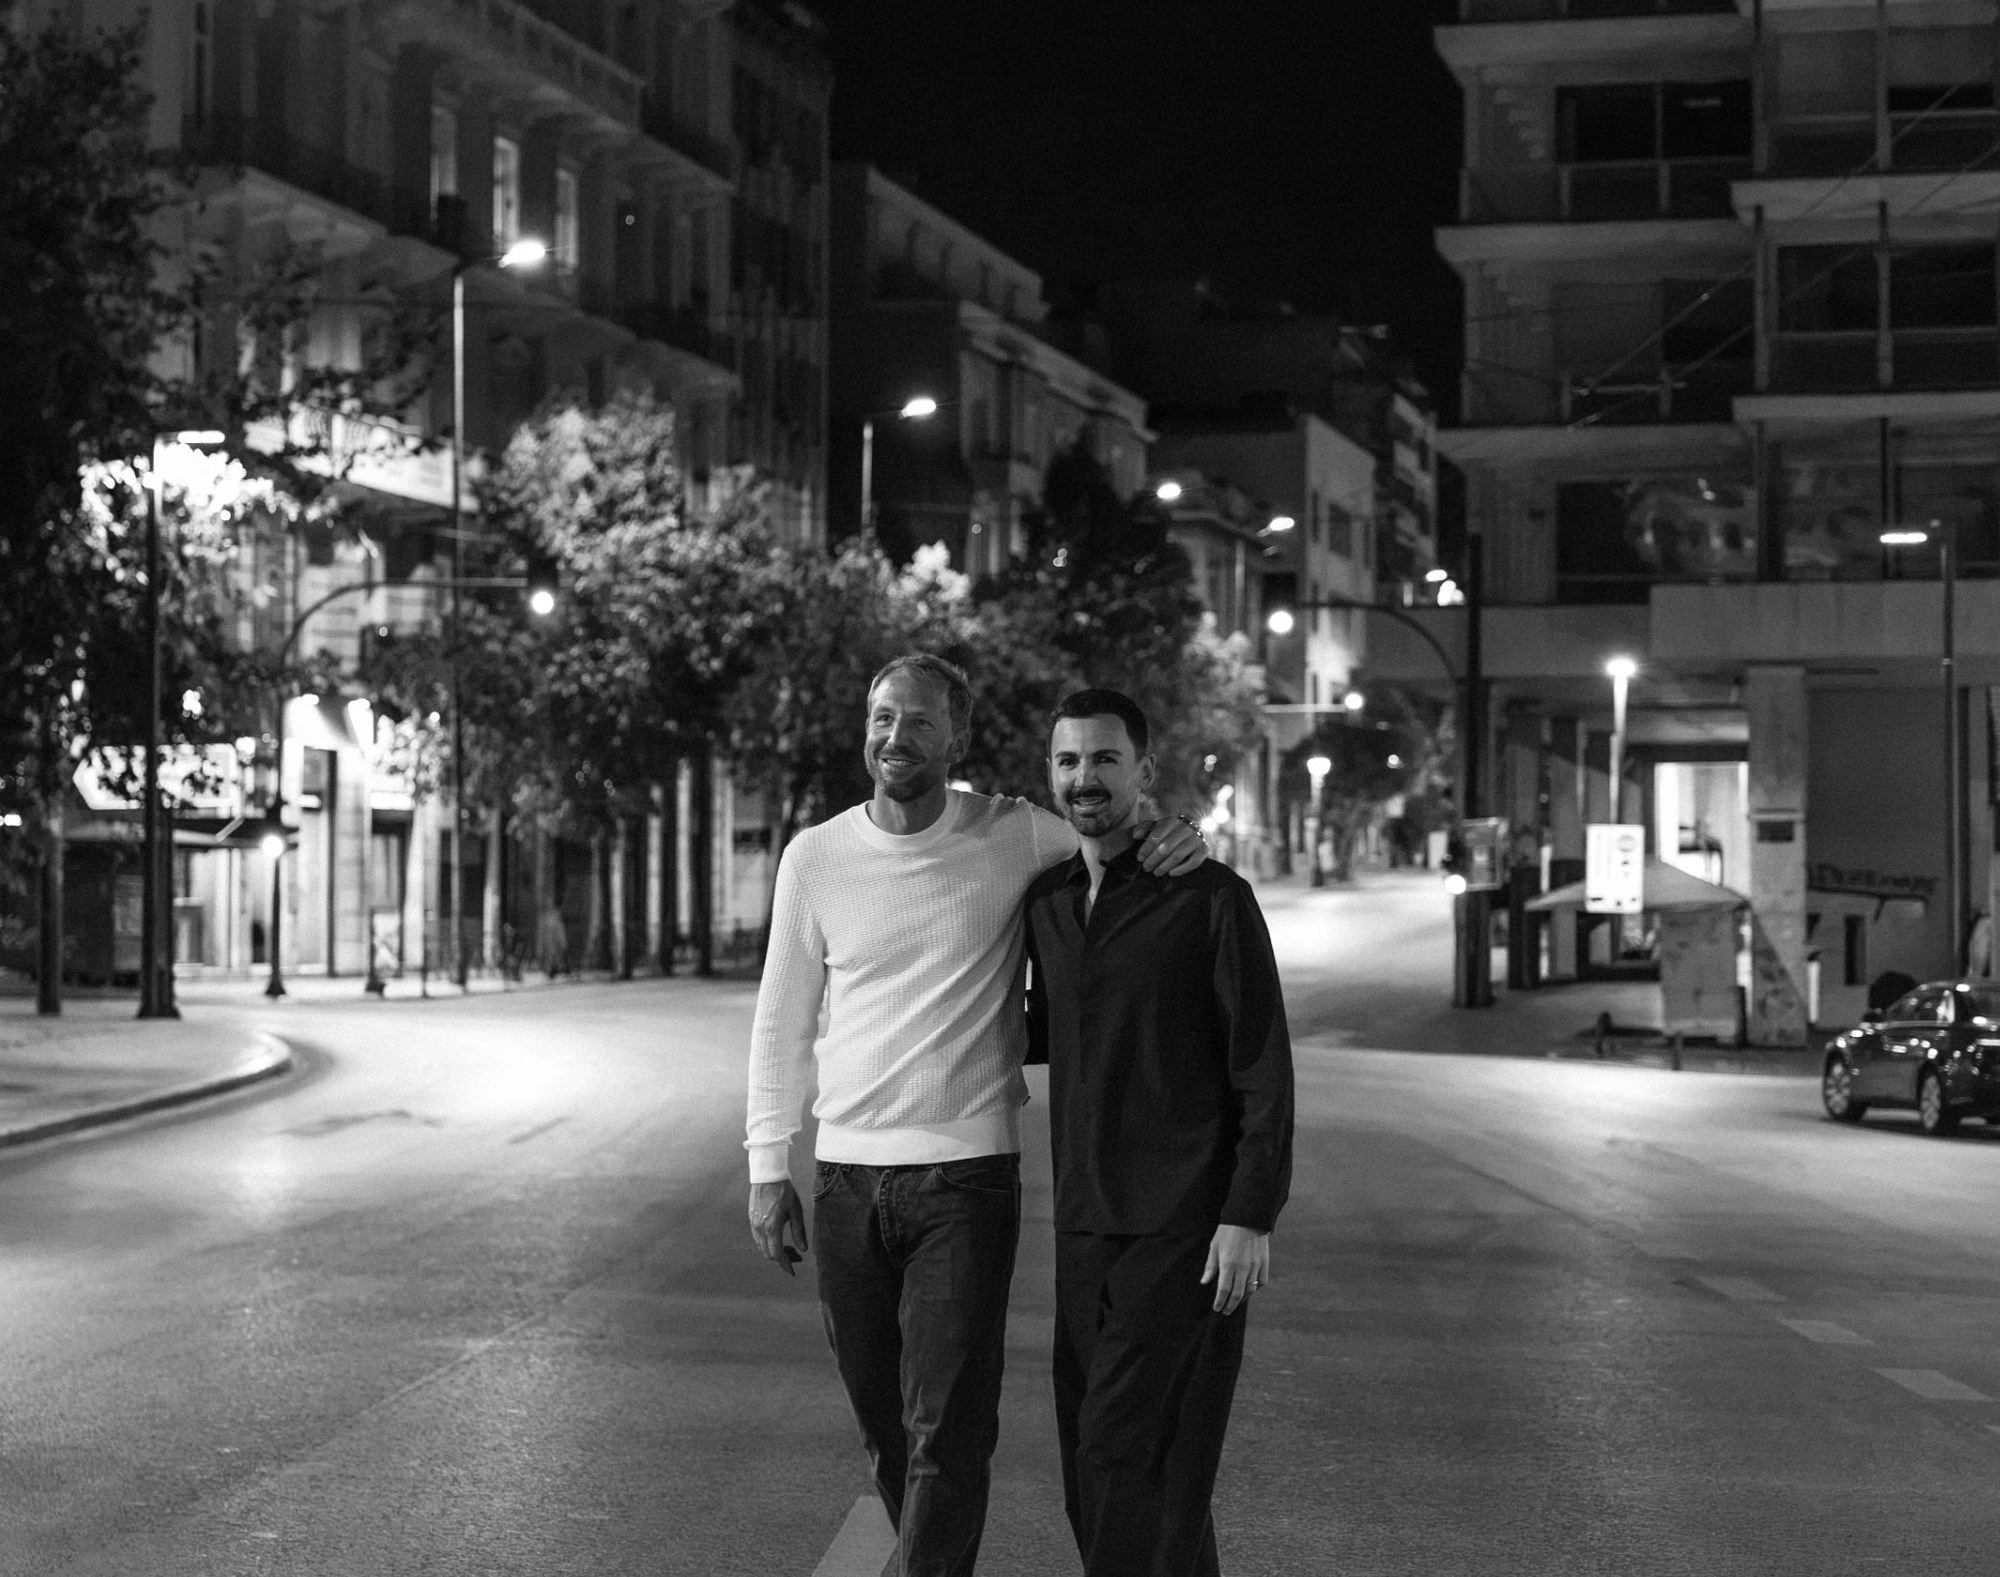
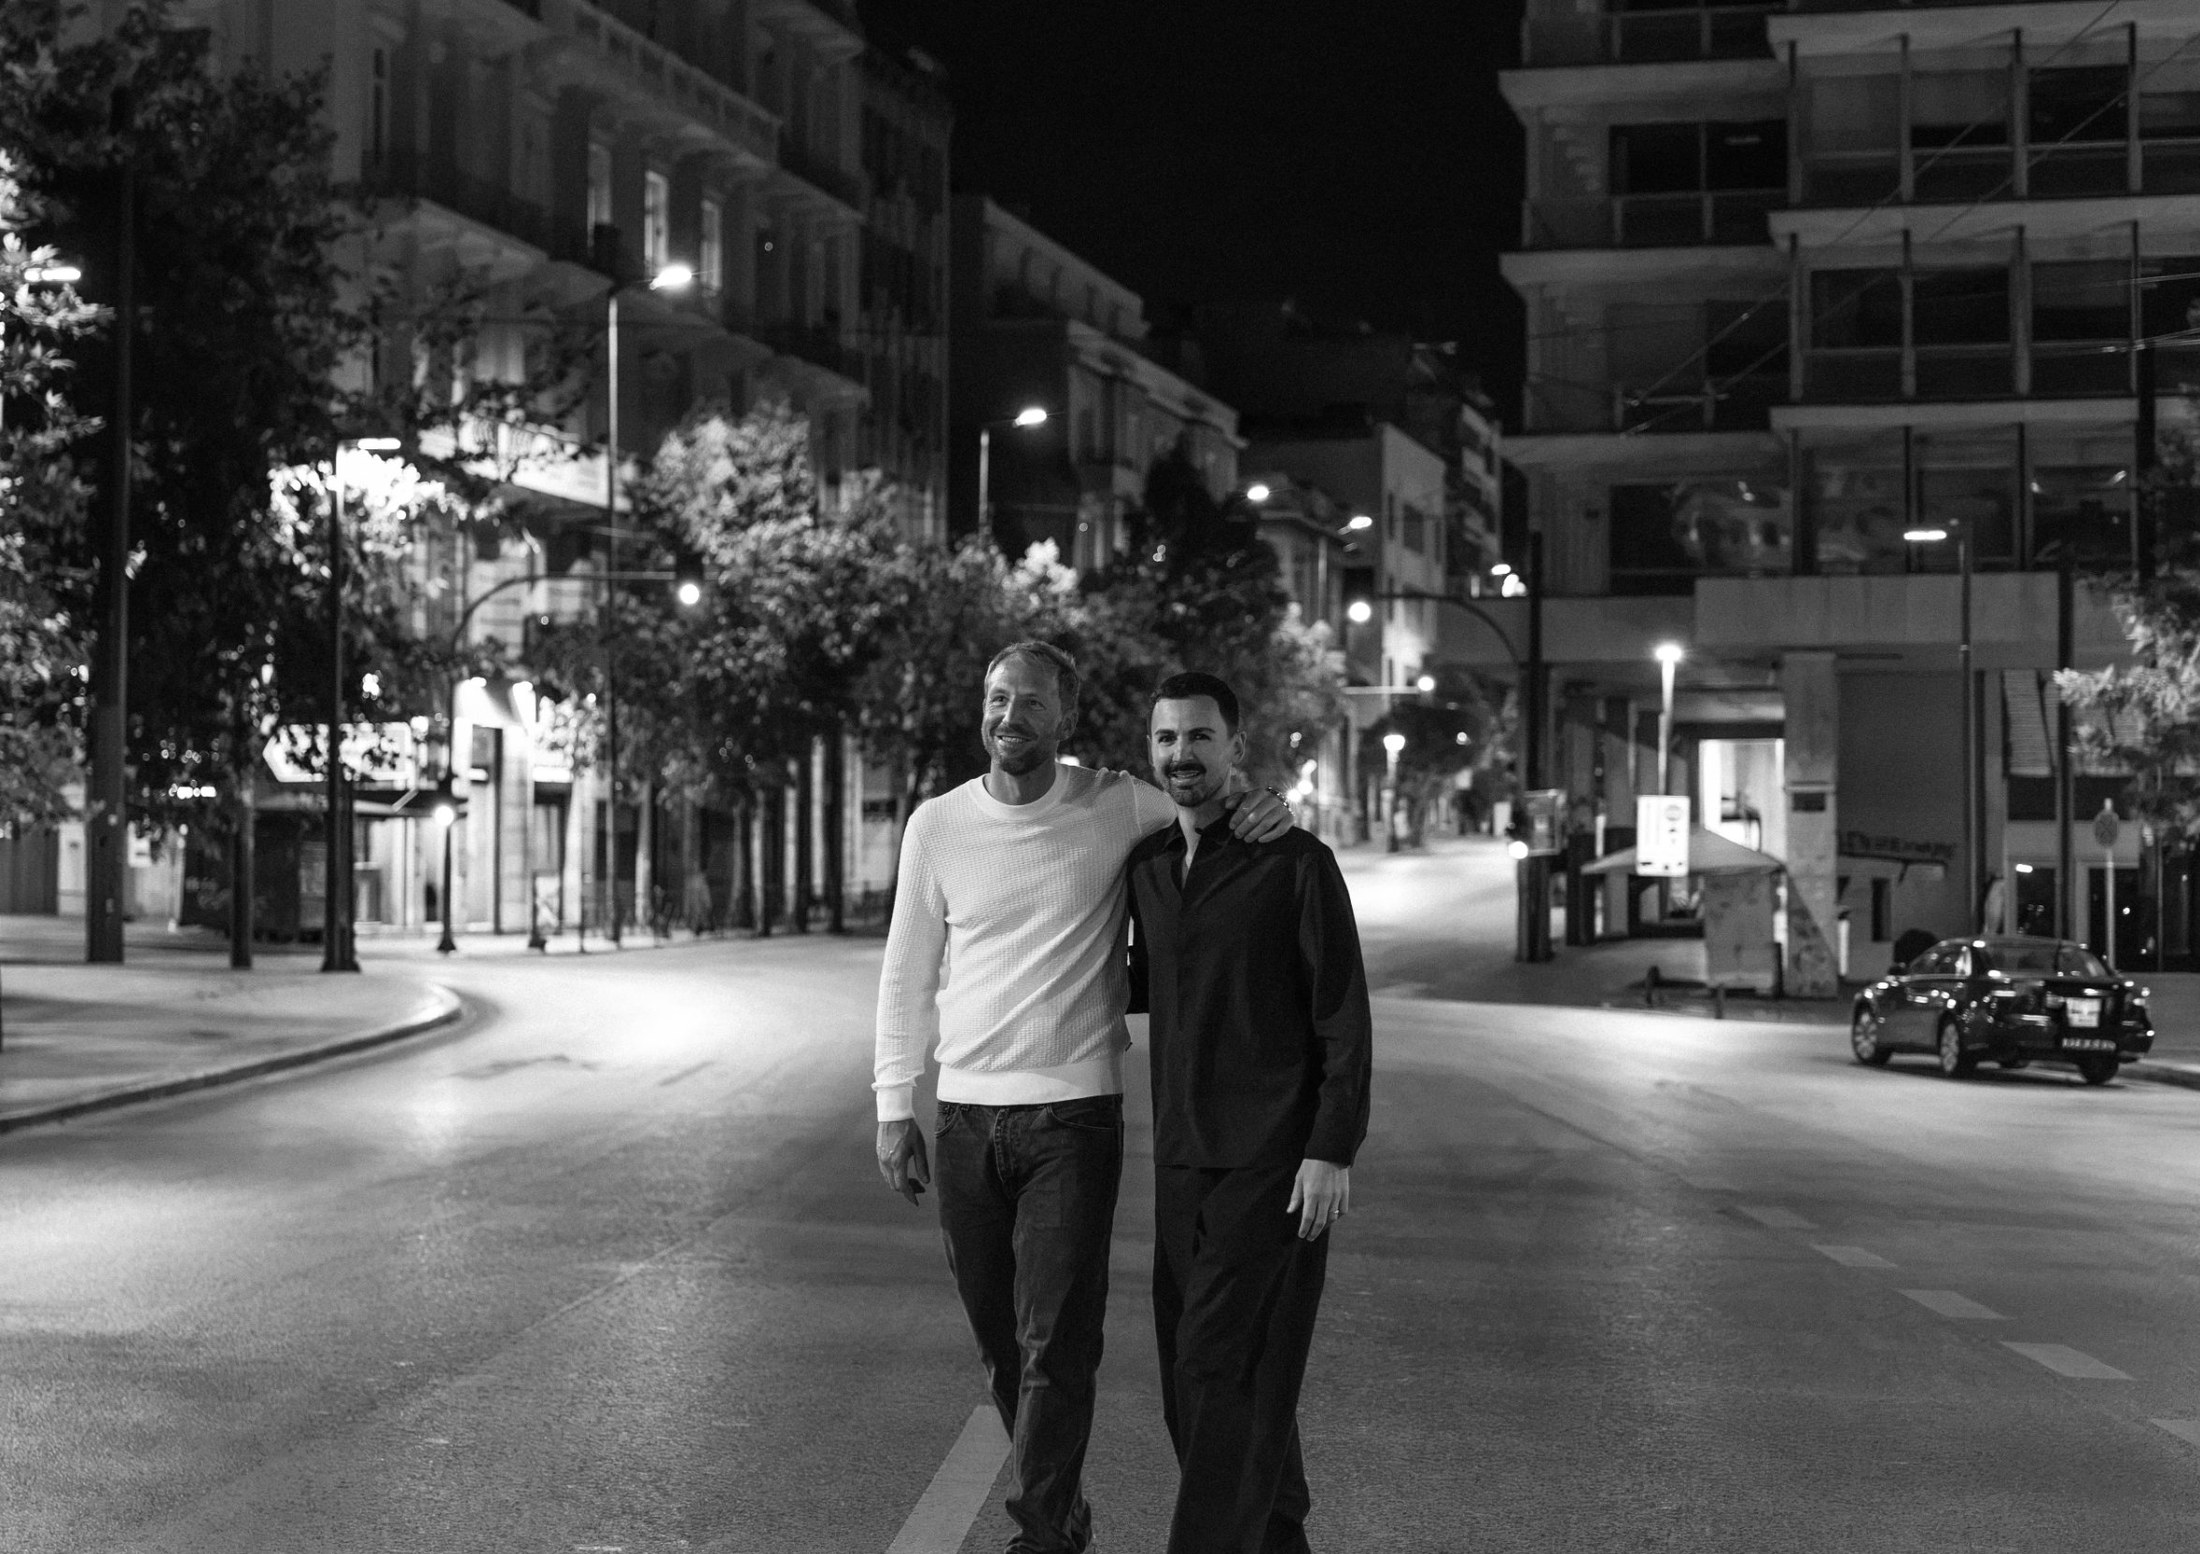
Pull the hero crop back for a wider view of the street
Claude-Session: https://claude.ai/code/session_015GEe3J4j24eD9EbVxay4VT

diff --git a/index.html b/index.html
@@ -106,7 +106,7 @@
     display: block;
     width: 100%; height: 100%; max-width: 100%;
     object-fit: cover;
-    object-position: 50% 62%;
+    object-position: 50% 58%;
   }
   .plate-scrim {
     position: absolute; inset: 0; z-index: -1;
@@ -337,7 +337,7 @@
 </header>
 
 <section class="plate">
-  <img src="street.jpg" alt="Jack and Lefteris walking arm in arm down an empty Athens street at night" width="2200" height="1466">
+  <img src="street.jpg" alt="Jack and Lefteris walking arm in arm down an empty Athens street at night" width="2200" height="1554">
   <div class="plate-scrim"></div>
   <div class="inner">
     <p class="eyebrow">You are invited</p>
